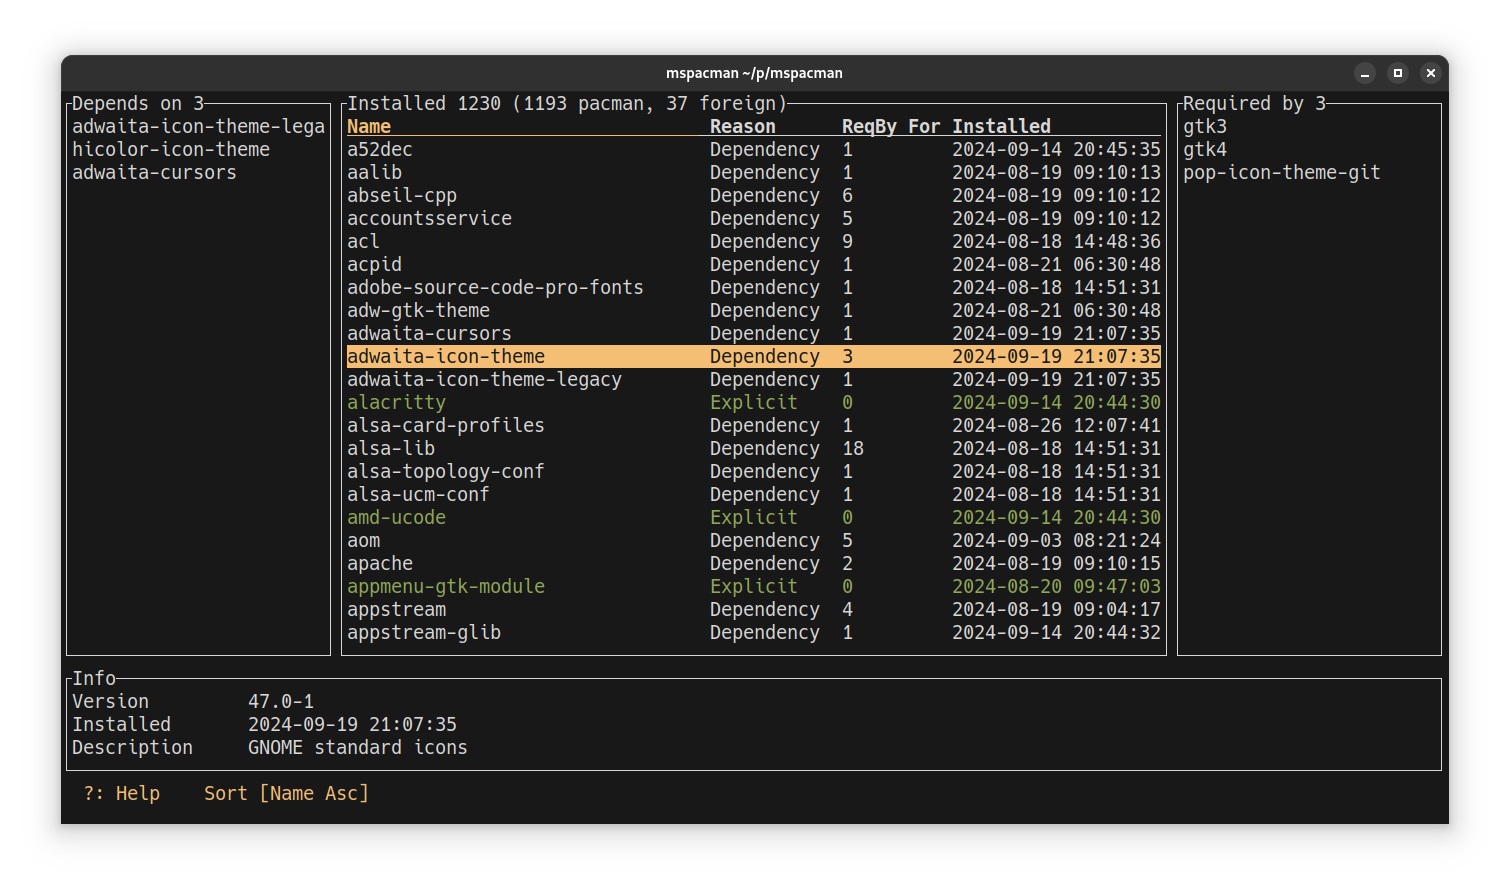
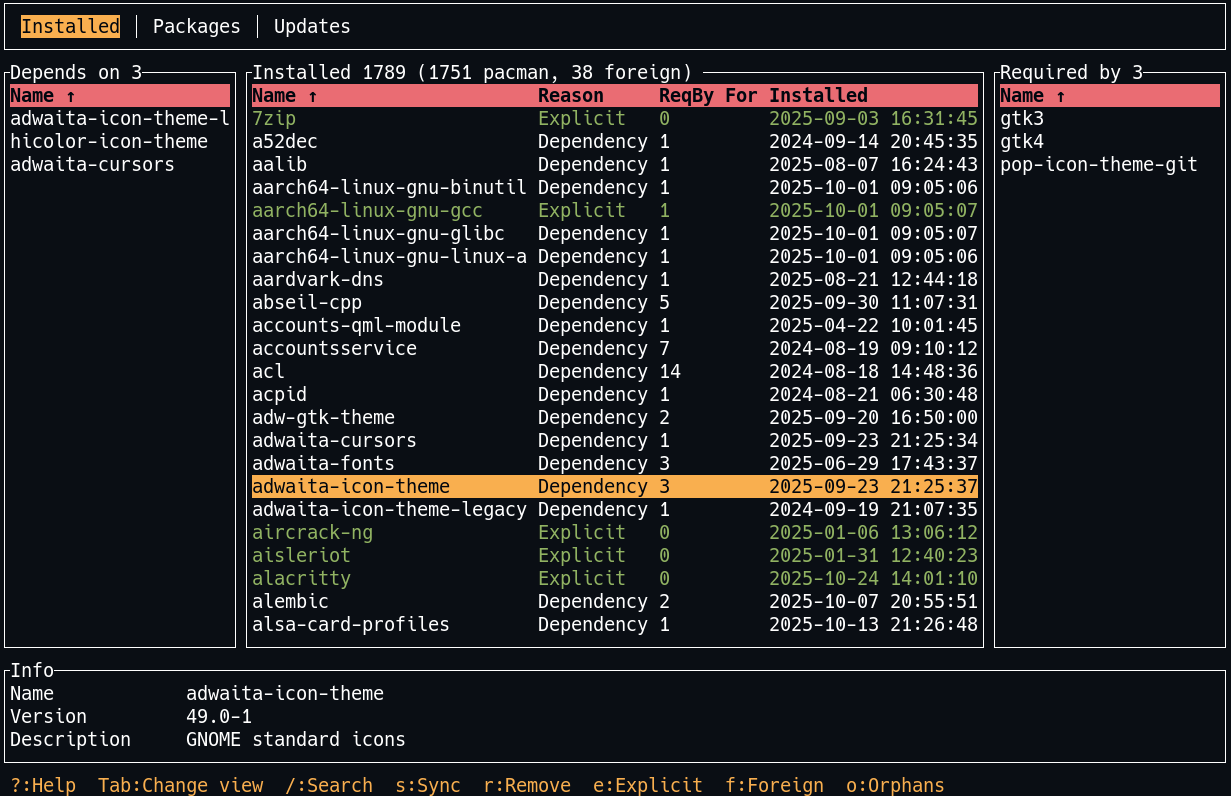
timedstring for messages; navigate to installed; show more shortcut help

diff --git a/src/main.rs b/src/main.rs
@@ -13,7 +13,10 @@ use ratatui::{
     text::Text,
     widgets::{Block, Borders, Clear, Paragraph, Row, Table, Tabs, Widget},
 };
-use std::{error::Error, time::Instant};
+use std::{
+    error::Error,
+    time::{Duration, Instant},
+};
 
 use crate::{
     error::AppError,
@@ -23,6 +26,7 @@ use crate::{
         event::{EventCommand, EventResult},
         package::Package,
         tab::Tab,
+        timedstring::TimedString,
     },
     widgets::{Commands, CurrentPackage},
 };
@@ -84,19 +88,24 @@ fn run(terminal: &mut DefaultTerminal, mut state: AppState) -> Result<(), AppErr
             EventResult::None => {}
             EventResult::Quit => return Ok(()),
             EventResult::Command(c) => {
-                state.message = "Running command...".to_string();
+                state.message = TimedString::new("Running command...", Duration::from_secs(10));
                 let _ = goto_screen(false, terminal);
                 let res = run_command(&mut state, c);
                 let _ = goto_screen(true, terminal);
                 if let Err(e) = res {
-                    state.message = e.to_string();
+                    state.message =
+                        TimedString::new(e.to_string().as_str(), Duration::from_secs(10));
                 } else {
-                    state.message = "Command completed.".to_string();
+                    state.message = TimedString::new("Command completed.", Duration::from_secs(10));
                 }
             }
             EventResult::NeedsUpdate => {
                 refresh_packages_and_update_tables(&mut state)?;
-            } //EventResult::Queue(_) => unreachable!(),
+            }
+            EventResult::GotoInstalled(name) => {
+                state.tab = Tab::Installed;
+                state.installed_widget.goto_package_by_name(&name);
+            }
         }
     }
 }
@@ -273,10 +282,11 @@ fn draw_help(state: &mut AppState, f: &mut Frame) -> Result<(), Box<dyn Error>> 
         "q: Quit".to_string(),
         "s: Sync Database".to_string(),
         "/: Search".to_string(),
-        "i: Toggle Info Panel".to_string(),
+        "Space: Select/Deselect item".to_string(),
         "Ctrl+a: Toggle select all".to_string(),
         "Esc: Clear Filter".to_string(),
         "1-9: Sort column".to_string(),
+        "i: Toggle Info Panel".to_string(),
         "".to_string(),
     ];
 
@@ -335,12 +345,15 @@ fn draw_status(state: &mut AppState, f: &mut Frame, rect: Rect) -> Result<(), Bo
 
     text.extend(formatted.iter().map(|s| s.as_str()));
 
-    let layout =
-        Layout::horizontal([Constraint::Percentage(80), Constraint::Percentage(20)]).split(rect);
+    let layout = Layout::horizontal([
+        Constraint::Percentage(100),
+        Constraint::Length(state.message.len() as u16 + 2),
+    ])
+    .split(rect);
 
     let info = Paragraph::new(text.join("  ")).style(Style::default().fg(Color::Yellow));
     f.render_widget(&info, layout[0]);
-    Text::raw(&state.message)
+    Text::raw(state.message.as_ref())
         .style(Style::default().fg(Color::Red))
         .render(layout[1], f.buffer_mut());
 

diff --git a/src/widgets/installed.rs b/src/widgets/installed.rs
@@ -279,15 +279,25 @@ impl InstalledWidget {
         );
         self.goto_package(&new_name);
     }
+
+    pub(crate) fn goto_package_by_name(&mut self, name: &String) {
+        let ind = self
+            .centre
+            .rows()
+            .iter()
+            .position(|p| &p.cells[0] == name)
+            .unwrap_or(0);
+        self.centre.set_current(Some(ind));
+    }
 }
 
 impl Commands for InstalledWidget {
     fn command_descriptions(&self) -> Vec<(&str, &str, &str)> {
         vec![
             ("r", "Remove selected packages", "Remove"),
-            ("e", "Explicitly installed packages", "Explicit"),
-            ("f", "Foreign packages", "Foreign"),
-            ("o", "Orphaned packages", "Orphans"),
+            ("e", "View explicitly installed packages", "Explicit"),
+            ("f", "View foreign packages", "Foreign"),
+            ("o", "View orphaned packages", "Orphans"),
             ("p", "View files provided by package", "Provides"),
             ("P", "Focus providing packages table", ""),
             ("←/h", "Left dependency table", ""),

diff --git a/src/pman.rs b/src/pman.rs
@@ -51,7 +51,7 @@ pub fn run_command(state: &mut AppState, command: EventCommand) -> Result<(), Ap
         .write_all(format!("\nRunning command: {} {}\n", comm, args.join(" ")).as_bytes())?;
     //try run command as is
     let res = Command::new(comm).args(&args).status()?;
-
+    let mut ret = Ok(());
     if !res.success() {
         std::io::stdout().write_all("running sudo\n".as_bytes())?;
         //run as sudo
@@ -60,6 +60,7 @@ pub fn run_command(state: &mut AppState, command: EventCommand) -> Result<(), Ap
         let res = Command::new("sudo").args(&args).status()?;
         if !res.success() {
             std::io::stdout().write_all("Failed to run command".as_bytes())?;
+            ret = Err(String::from("Failed to run command").into());
         }
     }
     std::io::stdout().write_all("\nPress enter to continue...".as_bytes())?;
@@ -68,7 +69,7 @@ pub fn run_command(state: &mut AppState, command: EventCommand) -> Result<(), Ap
 
     refresh_packages_and_update_tables(state)?;
 
-    Ok(())
+    ret
 }
 
 pub fn combine_packages(

diff --git a/src/structs/appstate.rs b/src/structs/appstate.rs
@@ -1,14 +1,15 @@
+use std::time::Duration;
+
 use crate::{
-    structs::{package::Package, tab::Tab},
+    structs::{package::Package, tab::Tab, timedstring::TimedString},
     widgets::{installed::InstalledWidget, packages::PackagesWidget, update::UpdateWidget},
 };
 
-#[derive(Debug)]
 pub struct AppState {
     pub packages: Vec<Package>,
     pub show_info: bool,
     pub show_help: bool,
-    pub message: String,
+    pub message: TimedString,
 
     //for command
     pub command: String,
@@ -25,7 +26,7 @@ impl Default for AppState {
             packages: Vec::new(),
             show_info: true,
             show_help: false,
-            message: String::new(),
+            message: TimedString::new("", Duration::from_secs(5)),
             command: String::new(),
             tab: Tab::Installed,
             update_widget: UpdateWidget::default(),

diff --git a/src/widgets/update.rs b/src/widgets/update.rs
@@ -124,6 +124,7 @@ impl Commands for UpdateWidget {
             ("m", "Show major changes and up", "Major"),
             ("n", "Show minor changes and up", "Minor"),
             ("a", "Show all changes", "All"),
+            ("Enter", "View dependencies", "Dependencies"),
         ]
     }
     fn handle_key_event(&mut self, key: &KeyEvent) -> Option<EventResult> {
@@ -164,6 +165,12 @@ impl Commands for UpdateWidget {
             KeyCode::Esc => {
                 self.filter = None;
                 self.filter_data();
+            }
+            KeyCode::Enter => {
+                //goto installed
+                if let Some(pkg) = self.current_package() {
+                    return Some(EventResult::GotoInstalled(pkg.name.clone()));
+                }
             }
 
             _ => {}

diff --git a/src/structs/timedstring.rs b/src/structs/timedstring.rs
@@ -1,0 +1,34 @@
+use std::time::Duration;
+
+pub struct TimedString {
+    content: String,
+    timestamp: std::time::Instant,
+    duration: Duration,
+}
+
+impl TimedString {
+    pub fn new(content: &str, duration: Duration) -> Self {
+        Self {
+            content: content.to_string(),
+            duration,
+            timestamp: std::time::Instant::now(),
+        }
+    }
+    pub fn len(&self) -> usize {
+        if self.timestamp.elapsed() > self.duration {
+            0
+        } else {
+            self.content.len()
+        }
+    }
+}
+
+impl AsRef<str> for TimedString {
+    fn as_ref(&self) -> &str {
+        if self.timestamp.elapsed() > self.duration {
+            ""
+        } else {
+            &self.content
+        }
+    }
+}

diff --git a/src/utils.rs b/src/utils.rs
@@ -1,7 +1,7 @@
 use std::cmp::Ordering;
 
-///Natural sort comparison of two strings
-///So that "file2" < "file10"
+/// Natural sort comparison of two strings
+/// So that "file2" < "file10"
 /// Split into number and string tokens
 /// Compare number tokens numerically, string tokens lexicographically
 pub fn natural_cmp(a: &str, b: &str) -> Ordering {

diff --git a/src/structs/event.rs b/src/structs/event.rs
@@ -4,6 +4,7 @@ pub enum EventResult {
     Quit,
     Command(EventCommand),
     NeedsUpdate,
+    GotoInstalled(String),
 }
 
 #[derive(PartialEq)]

diff --git a/src/structs/mod.rs b/src/structs/mod.rs
@@ -6,3 +6,4 @@ pub mod package;
 pub mod packageupdate;
 pub mod reason;
 pub mod tab;
+pub mod timedstring;
